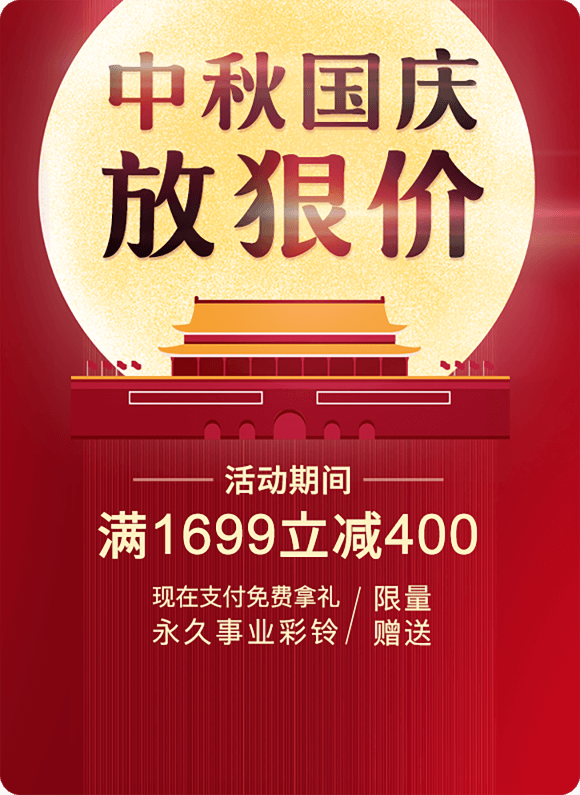
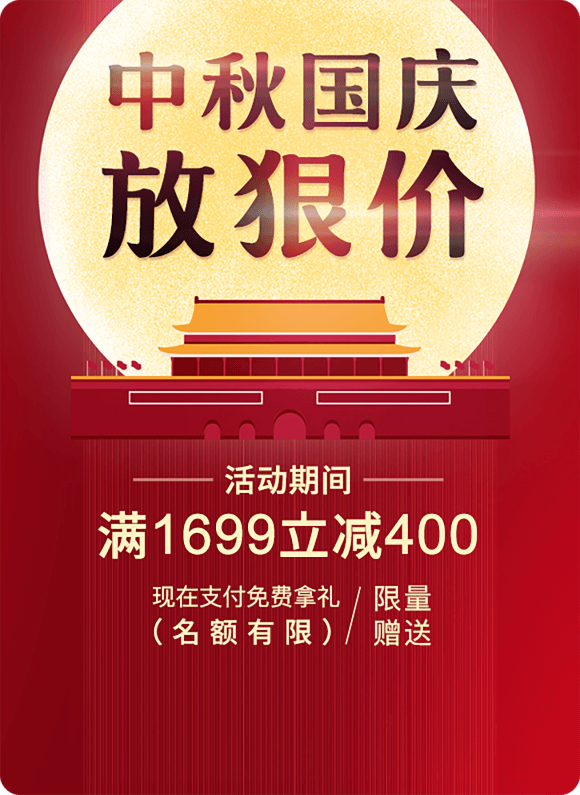
活动问题修改

Changed region(s): [[0.2483, 0.7547, 0.5897, 0.8151]]

diff --git a/pages/activity/national_day.vue b/pages/activity/national_day.vue
@@ -1,12 +1,6 @@
 <template>
 	<view id="app">
-		<image src="/static/activity/zhi1.png" mode="widthFix"></image>
-		<image src="/static/activity/zhi2.png" mode="widthFix"></image>
-		<image src="/static/activity/zhi3.png" mode="widthFix"></image>
-		<image src="/static/activity/zhi4.png" mode="widthFix"></image>
-		<image src="/static/activity/zhi5.png" mode="widthFix"></image>
-		<image src="/static/activity/zhi6.png" mode="widthFix"></image>
-		<image src="/static/activity/zhi7.png" mode="widthFix"></image>
+		<image src="/static/activity/zhi1.jpg" mode="widthFix"></image>
 		<view class="has_btn" @click.stop="goNext('activity')">立即标注 免费领礼</view>
 	</view>
 </template>
@@ -19,7 +13,8 @@
 			};
 		},
 		onShow() {
-
+			this.goShare()
+			this.goShareCircle()
 		},
 		methods: {
 			// 跳转页面
@@ -31,7 +26,51 @@
 						})
 						break;
 				}
-			}
+			},
+			// 调用微信自定义分享
+			goShare() {
+				let obj = {
+					title: `中秋国庆放狠价`,
+					desc: `双节期间地图标注只需78 更有海量礼品等你来拿`,
+					shareUrl: window.location.href,
+					imgUrl: `${this.$dataURL}/image/58/580a19df160423578b741b96af3f450c.png`
+				}
+				// #ifdef H5
+				if (this.$jwx && this.$jwx.isWechat()) {
+					this.$jwx.initJssdk(res => {
+						let shareData = {
+							title: obj.title, // 分享标题
+							desc: obj.desc, // 分享描述
+							shareUrl: obj.shareUrl, // 分享链接
+							imgUrl: obj.imgUrl, // 分享图标
+						}
+						this.$jwx.onMenuShareAppMessage(shareData, function(response) {
+							// console.log('response', response)
+						})
+					})
+				}
+				// #endif
+			},
+			// 调用微信分享朋友圈
+			goShareCircle() {
+				let obj = {
+					title: `中秋国庆放狠价`,
+					shareUrl: window.location.href,
+					imgUrl: `${this.$dataURL}/image/58/580a19df160423578b741b96af3f450c.png`
+				}
+				// #ifdef H5
+				if (this.$jwx && this.$jwx.isWechat()) {
+					let shareData = {
+						title: obj.title, // 分享标题
+						shareUrl: obj.shareUrl, // 分享链接
+						imgUrl: obj.imgUrl, // 分享图标
+					}
+					this.$jwx.onMenuShareTimeline(shareData, function(response) {
+						// console.log('response', response)
+					})
+				}
+				// #endif
+			},
 		}
 	}
 </script>
@@ -46,7 +85,7 @@
 	.has_btn {
 		position: fixed;
 		left: 50%;
-		bottom: 60rpx;
+		bottom: 70rpx;
 		transform: translate(-50%,-50%);
 		width: 80%;
 		color: #FEEACF;

diff --git a/pages/activity/moon_festival.vue b/pages/activity/moon_festival.vue
@@ -1,10 +1,6 @@
 <template>
 	<view id="app">
-		<image src="/static/activity/con01.png" mode="widthFix"></image>
-		<image src="/static/activity/con02.png" mode="widthFix"></image>
-		<image class="turnUp" src="/static/activity/con03.png" mode="widthFix"></image>
-		<image src="/static/activity/con04.png" mode="widthFix"></image>
-		<image src="/static/activity/con05.png" mode="widthFix"></image>
+		<image src="/static/activity/con01.jpg" mode="widthFix"></image>
 		<view class="has_btn" @click.stop="goNext('activity')">立即标注 免费领礼</view>
 	</view>
 </template>
@@ -17,7 +13,8 @@
 			};
 		},
 		onShow() {
-
+			this.goShare()
+			this.goShareCircle()
 		},
 		methods: {
 			// 跳转页面
@@ -37,7 +34,51 @@
 						})
 						break;
 				}
-			}
+			},
+			// 调用微信自定义分享
+			goShare() {
+				let obj = {
+					title: `喜迎中秋 欢度国庆`,
+					desc: `双节期间地图标注只需78 更有海量礼品等你来拿`,
+					shareUrl: window.location.href,
+					imgUrl: `${this.$dataURL}/image/2b/2b649970ee9be11aa0c00c343588c623.png`
+				}
+				// #ifdef H5
+				if (this.$jwx && this.$jwx.isWechat()) {
+					this.$jwx.initJssdk(res => {
+						let shareData = {
+							title: obj.title, // 分享标题
+							desc: obj.desc, // 分享描述
+							shareUrl: obj.shareUrl, // 分享链接
+							imgUrl: obj.imgUrl, // 分享图标
+						}
+						this.$jwx.onMenuShareAppMessage(shareData, function(response) {
+							// console.log('response', response)
+						})
+					})
+				}
+				// #endif
+			},
+			// 调用微信分享朋友圈
+			goShareCircle() {
+				let obj = {
+					title: `喜迎中秋 欢度国庆`,
+					shareUrl: window.location.href,
+					imgUrl: `${this.$dataURL}/image/2b/2b649970ee9be11aa0c00c343588c623.png`
+				}
+				// #ifdef H5
+				if (this.$jwx && this.$jwx.isWechat()) {
+					let shareData = {
+						title: obj.title, // 分享标题
+						shareUrl: obj.shareUrl, // 分享链接
+						imgUrl: obj.imgUrl, // 分享图标
+					}
+					this.$jwx.onMenuShareTimeline(shareData, function(response) {
+						// console.log('response', response)
+					})
+				}
+				// #endif
+			},
 		}
 	}
 </script>

diff --git a/pages/home/home.vue b/pages/home/home.vue
@@ -173,6 +173,9 @@
 			})
 		},
 		methods: {
+			...mapMutations({
+				setUserInfo: 'setUserInfo'
+			}),
 			// 获取用户信息
 			getUserdata() {
 				var value = uni.getStorageSync('userMsg')
@@ -181,6 +184,7 @@
 					console.log('has value!+++++++++')
 					console.log(value)
 					console.log('has value!+++++++++')
+					this.getUserInfo()
 					this.getloadingOrder()
 				} else {
 					console.log('no value!+++++++++')
@@ -197,10 +201,12 @@
 				let open = uni.getStorageSync('openPost')
 				// 根据编辑信息控制弹窗显示
 				if (open === true) {
-					this.$nextTick(() => {
-						this.showDailog = true;
+					setTimeout(() => {
+						this.$nextTick(() => {
+							this.showDailog = true;
+						})
+						uni.removeStorageSync('openPost');
 					})
-					uni.removeStorageSync('openPost');
 				} else {
 					if (!this.userInfo.is_mark) {
 						this.$nextTick(() => {
@@ -239,6 +245,22 @@
 					});
                 	return result;
             	}
+			},
+			// 获取用户信息
+			getUserInfo() {
+				let value = uni.getStorageSync('userMsg')
+				if (value.hasOwnProperty('wxid')) {
+					this.$test
+						.post(`/?r=api/user/info`, {
+							wxid: value.wxid || this.userInfo.wxid
+						})
+						.then(response => {
+							if (response.code === 200) {
+								this.$set(response.data, 'wxid', value.wxid)
+								this.setUserInfo(response.data)
+							}
+						});
+				}
 			},
 			// 上传合法手机号，获取信息
 			postMobile(tel) {

diff --git a/main.js b/main.js
@@ -85,8 +85,17 @@ Vue.prototype.$getAuthorize = () => {
     })
   } else {
     let url = window.location.href.split('#')[1]
-    // window.location.href = `${baseURL}/api/geMapWxInfo`  // 正式
-    window.location.href = `${testURL}?r=api/user/authorize&path=${url}`  // 测试
+    switch (url) {
+      case '/pages/activity/moon_festival':
+        window.location.href = `${testURL}?r=api/user/authorize`
+        break;
+      case '/pages/activity/national_day':
+        let route = '/pages/train/train'
+        window.location.href = `${testURL}?r=api/user/authorize&path=${route}`
+        break;
+      default:
+        window.location.href = `${testURL}?r=api/user/authorize&path=${url}`
+    }
   }
 
   function getRoute(url) {

diff --git a/pages/mine/mine.vue b/pages/mine/mine.vue
@@ -128,14 +128,14 @@ export default {
 				},
 			],
 			bannerList: [
-                {
-                    id: 3,
-                    img: '/static/mine/banner03.png'
-                },
-                {
-                    id: 4,
-                    img: '/static/mine/banner04.png'
-                },
+                // {
+                //     id: 3,
+                //     img: '/static/mine/banner03.png'
+                // },
+                // {
+                //     id: 4,
+                //     img: '/static/mine/banner04.png'
+                // },
                 {
                     id: 0,
                     img: '/static/mine/banner.png'

diff --git a/App.vue b/App.vue
@@ -83,7 +83,7 @@ export default {
         // 获取用户信息
 		getUserInfo() {
             let value = uni.getStorageSync('userMsg')
-            if (Object.keys(value).length == 4) {
+            if (value.hasOwnProperty('wxid')) {
                 this.$test
                     .post(`/?r=api/user/info`, {
                         wxid: value.wxid || this.userInfo.wxid
